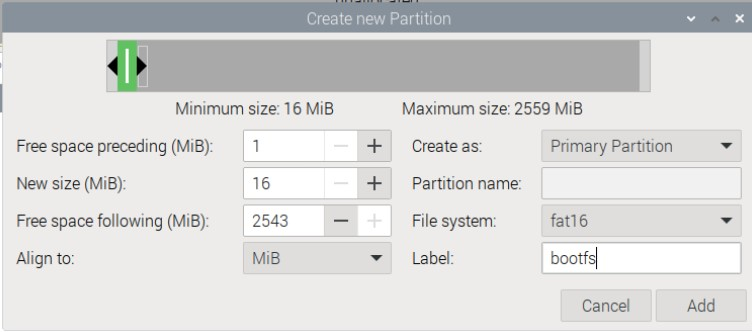
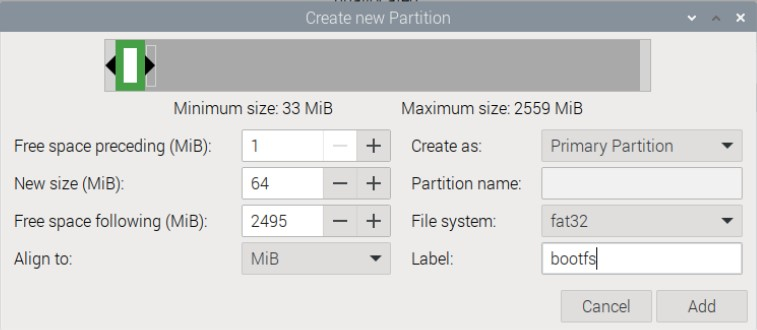
Updated post

diff --git a/_posts/2024-09-07-ImprouvingRaspOSVM.md b/_posts/2024-09-07-ImprouvingRaspOSVM.md
@@ -133,9 +133,11 @@ I had then a new disk of 2.5GiB connected at _/dev/sdc_. It was time to play wit
 
 ![Empty disk](/assets/images/2024-09-07-ImprouvingRaspOSVM/GParted02.jpg)
 
-Next I right clicked on the unallocated space and chose _New_ on the menu. On the dialog box that opened I set the size to 16MiB, file system to _fat16_, labeled it _bootfs_ and clicked _Add_.
+Next I right clicked on the unallocated space and chose _New_ on the menu. On the dialog box that opened I set the size to 64MiB, file system to _fat32_, labeled it _bootfs_ and clicked _Add_.
 
-![Creating boot partition](/assets/images/2024-09-07-ImprouvingRaspOSVM/GParted04.jpg)
+![Creating boot partition](/assets/images/2024-09-07-ImprouvingRaspOSVM/GParted03.jpg)
+
+Only 6MiB will be effectively used on the _bootfs_ partition, and if I made it to that size the machine would boot perfectly. However, on updates, Raspberry Pi OS will write new drivers to that partition and if there were not enough space, the update would fail. So, keep it in mind; if for some reason you have a VM that you do not intend to update __EVER__, you could use a smaller _bootfs_.
 
 Then I right clicked again on the unallocated space and created the _rootfs_ partition. I kept all the defaults and only changed the label to _rootfs_.
 
